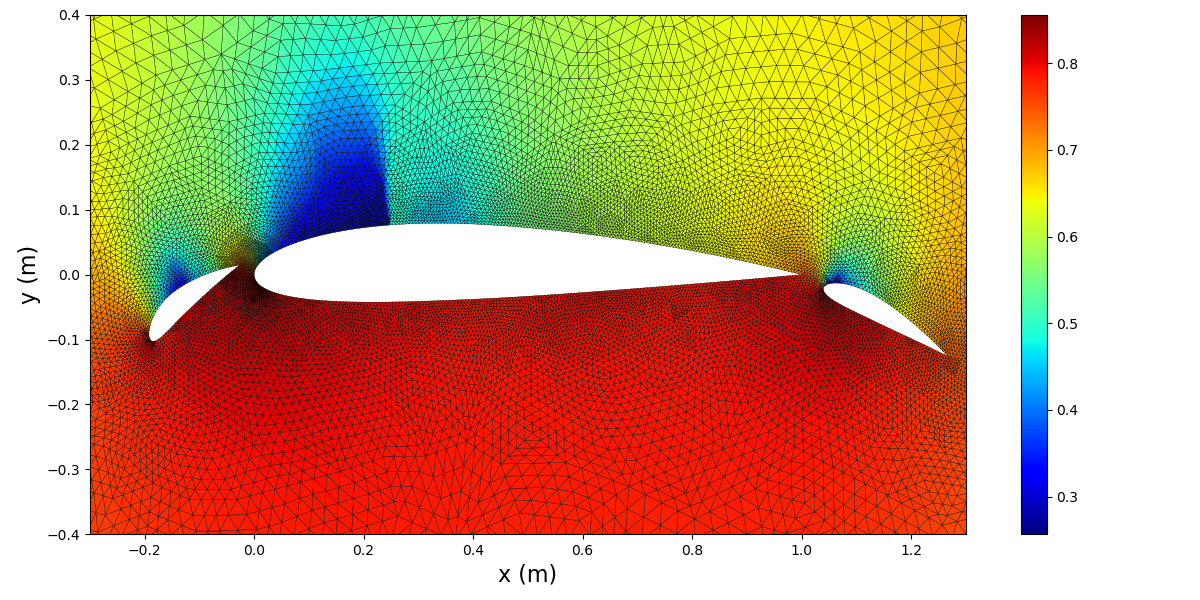
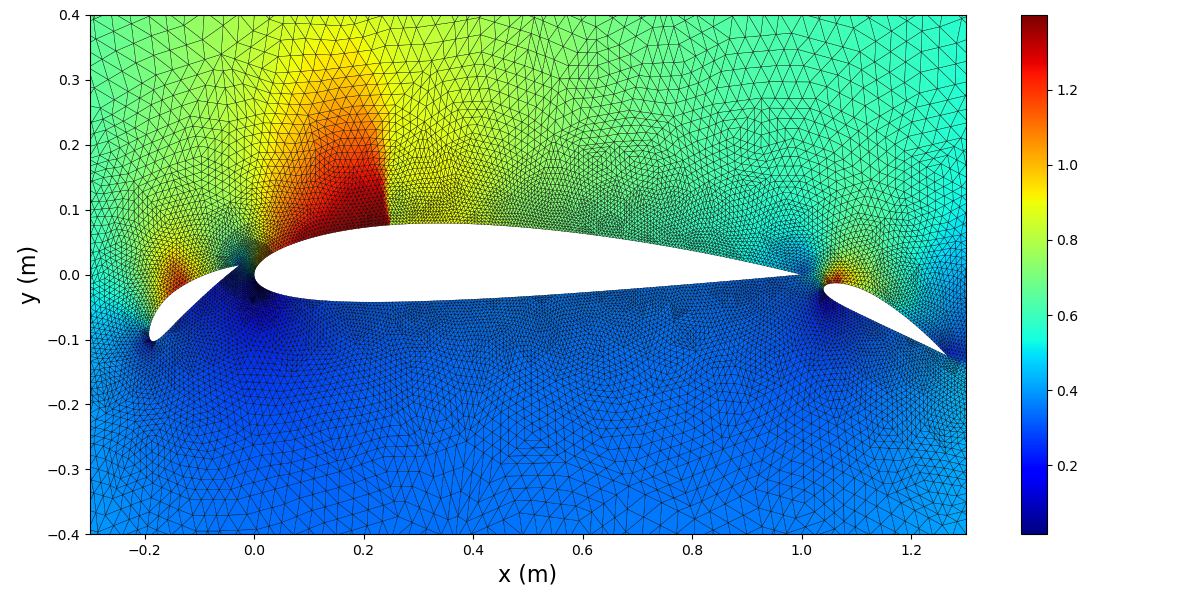
1

diff --git a/post-process.py b/post-process.py
@@ -1,6 +1,5 @@
 import numpy as np
 import matplotlib.pyplot as plt
-from matricesGenerator import getB2E
 from readgri import readgri
 
 
@@ -16,9 +15,10 @@ def plotMach(U, Mesh, name):
     q = np.sqrt(u ** 2 + v ** 2)
     p = (gamma - 1) * (U[:, 3] - 0.5 * r * q ** 2)
     c = np.sqrt(gamma * p / r)
+    M = q / c
 
     f = plt.figure(figsize=(12, 6))
-    plt.tripcolor(X, Y, triangles=elem, facecolors=p, shading='flat', edgecolor='black')
+    plt.tripcolor(X, Y, triangles=elem, facecolors=M, shading='flat', edgecolor='black')
     cbar = plt.colorbar(orientation='vertical')
     cbar.ax.tick_params()
     plt.set_cmap('jet')
@@ -46,6 +46,7 @@ def outputs(U, Uinf, Mesh, alpha):
     E = readgri(Mesh)['E']
     V = readgri(Mesh)['V']
     B = readgri(Mesh)['B']
+    IE = readgri()
     Bname = readgri(Mesh)['Bname']
 
     # read the state matrix
@@ -66,37 +67,47 @@ def outputs(U, Uinf, Mesh, alpha):
 
     Fx = 0
     Fy = 0
-    pB = np.array([])
+    pBslat = np.array([])
+    pBmain = np.array([])
+    pBflap = np.array([])
+    xslat = np.array([])
+    xmain = np.array([])
+    xflap = np.array([])
     x = np.array([])
     iElem = len(E)
-    count = 0
-    for k in range(1, len(B)):
+    for k in range(len(B) - 1):
         for i in range(len(B[k])):
             for j, ne in enumerate(np.isin(E, B[k][i])):
                 if np.count_nonzero(ne) == 2:
-                    print(ne, )
-                    iElem = i
-                    count += 1
+                    iElem = j
                     break
             node1Coord = V[B[k][i][0] - 1]
             node2Coord = V[B[k][i][1] - 1]
             l = np.sqrt((node2Coord[0] - node1Coord[0]) ** 2 + (node2Coord[1] - node1Coord[1]) ** 2)
-            x = np.append(x, (node1Coord[0] + node2Coord[0]) / 2)
-            pB = np.append(pB, p[iElem])
-
+            xi = np.append(x, (node1Coord[0] + node2Coord[0]) / 2)
+            if k == 1:
+                pBslat = np.append(pBslat, p[iElem])
+                xslat = np.append(xslat, xi)
+            elif k == 2:
+                pBmain = np.append(pBmain, p[iElem])
+                xmain = np.append(xmain, xi)
+            else:
+                pBflap = np.append(pBflap, p[iElem])
+                xflap = np.append(xflap, xi)
             nx = (node2Coord[1] - node1Coord[1]) / l
             ny = -(node2Coord[0] - node1Coord[0]) / l
             Fx += l * p[iElem] * nx
             Fy += l * p[iElem] * ny
-    print(count)
-    D = np.cos(alpha) * Fx - np.sin(alpha) * Fy
-    L = np.sin(alpha) * Fx + np.cos(alpha) * Fy
 
+    D = np.cos(alpha) * Fx + np.sin(alpha) * Fy
+    L = -np.sin(alpha) * Fx + np.cos(alpha) * Fy
+
+    pB = np.array([pBslat, pBmain, pBflap])
+    x = np.array([xslat, xmain, xflap])
     cl = L / (1 / 2 * rinf * qinf ** 2 * c)
     cd = D / (1 / 2 * rinf * qinf ** 2 * c)
-    print(pB, len(pB))
     cp = (pB - pinf) / (1 / 2 * rinf * qinf ** 2)
-    return cd, cl, [x, cp]
+    return cd, cl, x, cp
 
 
 def computeFreestreamState(Minf, alpha):
@@ -105,26 +116,28 @@ def computeFreestreamState(Minf, alpha):
     return uInf
 
 
-def plotCp(cp):
+def plotCp(x, cp):
     # cp plot
     f = plt.figure(figsize=(8, 8))
-    plt.xlabel('x', fontsize=16)
+    plt.xlabel('x (m)', fontsize=16)
     plt.ylabel(r'$c_p$', fontsize=16)
-    plt.title('Pressure coefficient distribution', fontsize=16)
-    plt.scatter(cp[0], cp[1])
+    plt.scatter(x[0], cp[0], label='flap')
+    #plt.scatter(x[1], cp[1], label='main')
+    #plt.scatter(x[2], cp[2], label='slat')
     f.tight_layout()
+    plt.legend()
     plt.show()
 
 
 def main():
-    U = np.loadtxt('outputStates_2ndOrder_TRANSONIC_32k_jb_rusanov.txt')
-    Mesh = 'c2.gri'
+    U = np.loadtxt('outputStates_adapt2.txt')
+    Mesh = 'adapt2.gri'
     Minf = 0.5
     alpha = 8 * np.pi / 180
     uInf = computeFreestreamState(Minf, alpha)
-    cd, cl, cp = outputs(U, uInf, Mesh, alpha)
+    cd, cl, x, cp = outputs(U, uInf, Mesh, alpha)
     print(f"cd = {cd}, cl = {cl}")
-    plotCp(cp)
+    plotCp(x, cp)
     plotMach(U, Mesh, ['8k', '2nd-order'])
 
 

diff --git a/solver.h b/solver.h
@@ -7,6 +7,7 @@
 
 #ifndef solver_h
 #define solver_h
+#define _USE_MATH_DEFINES
 
 #include <iostream>
 #include <iomanip>
